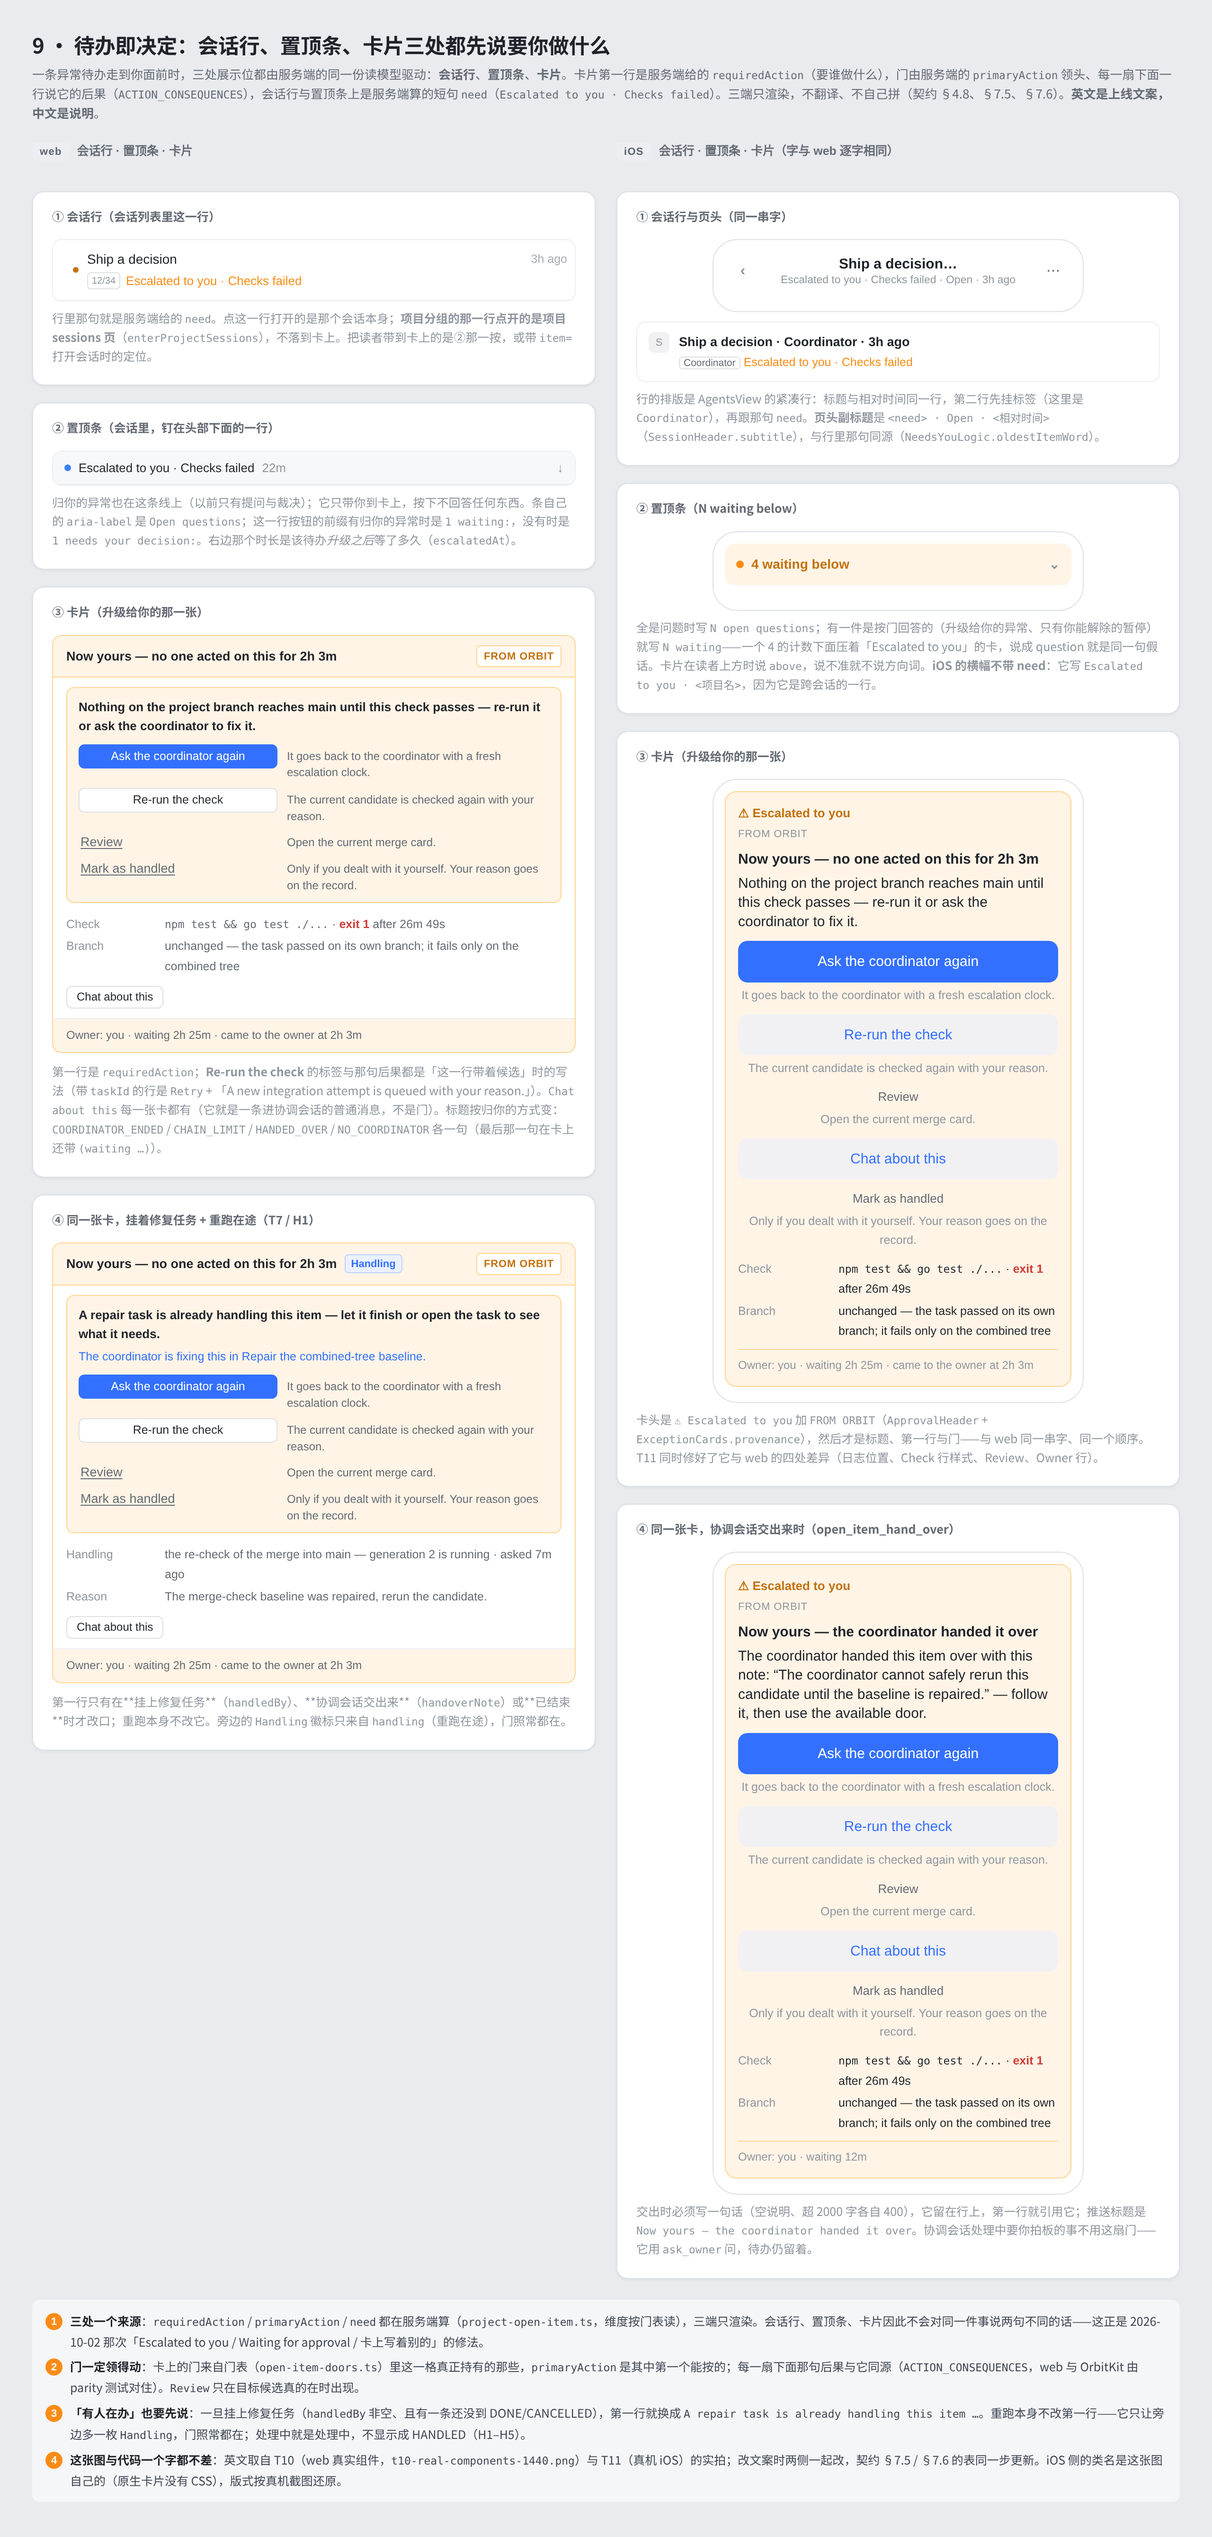
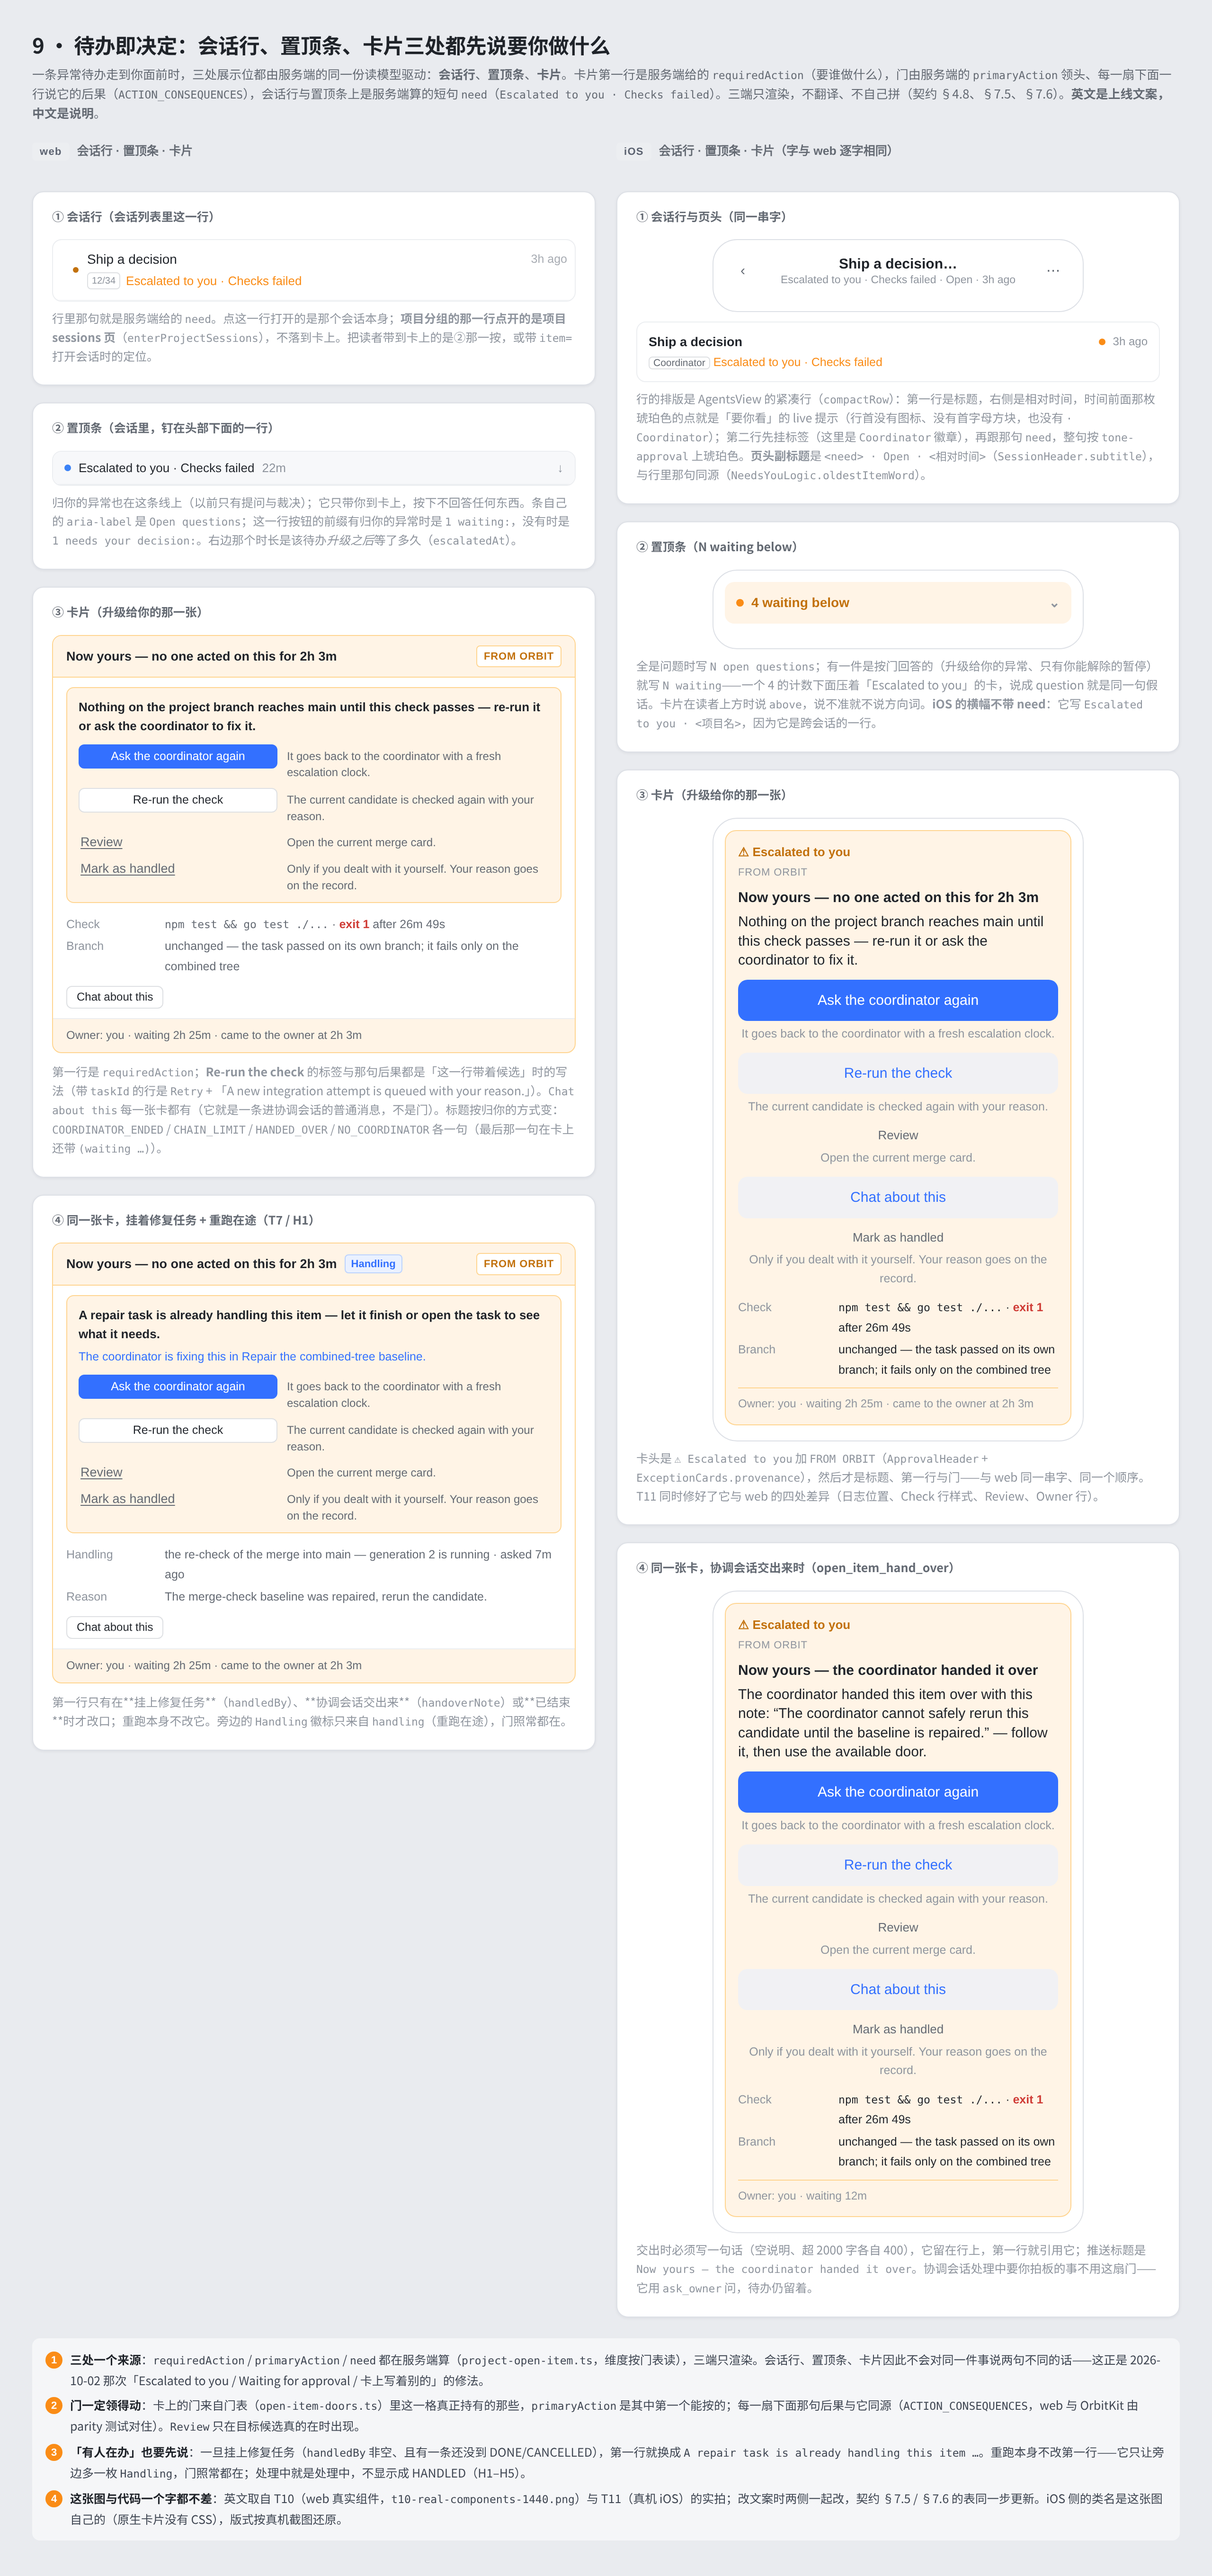
docs(project-progress): the reviewer's last five — one path, one sentence, one door name, one push title, one row
- §7.5 cites docs/mocks/project-progress/09-owner-item-as-decision.png (the file that exists).
- §4.6 X-E1 step 1 says the reconcile writes one of its two endings, which need not be
  the edge's (agreeing with §4.2).
- §7.5's session-row cell: the strip's press on an owner exception calls
  revealOwnerItemCard (DecisionRail.tsx:912); revealOpenItemCard is the promotion
  card's Review and the chat landing.
- §7.6 V12's NO_COORDINATOR cell now carries the push title, with the card's
  "(waiting …)" noted beside it.
- Mock 09's iOS row redrawn as AgentsView.compactRow draws it: title with the amber
  live dot and the relative time on line 1, the badge and the need line below, no
  initial tile. PNG re-rendered.

diff --git a/docs/mocks/project-progress/09-owner-item-as-decision.html b/docs/mocks/project-progress/09-owner-item-as-decision.html
@@ -41,11 +41,15 @@
   .i-facts { margin-top: 10px; }
   .i-foot { font-size: 12px; color: var(--text-3); margin-top: 8px;
             border-top: 1px solid var(--warning-border); padding-top: 7px; }
+  /* The compact row (AgentsView.compactRow): line 1 is the title with the live cue and the
+     relative time right-aligned; line 2 leads with the tags, then the preview line. */
   .row-sm { display: flex; align-items: flex-start; gap: 10px; padding: 10px 12px;
             border: 1px solid var(--border-subtle); border-radius: 10px; background: var(--bg-base); }
-  .row-sm .ini { width: 22px; height: 22px; border-radius: 6px; background: var(--fill-muted);
-                 display: grid; place-items: center; font-size: 11px; color: var(--text-3); flex: none; }
   .row-sm .main { min-width: 0; }
+  .row-sm .r1 { display: flex; align-items: center; gap: 8px; }
+  .row-sm .r1 .grow { flex: 1; }
+  .row-sm .dot { width: 7px; height: 7px; border-radius: 50%; background: var(--warning-solid); flex: none; }
+  .row-sm .when { font-size: 12px; color: var(--text-3); }
   .row-sm .t { font-size: 13.5px; font-weight: 600; color: var(--text-1); }
   .row-sm .s { font-size: 12.5px; color: var(--text-3); margin-top: 1px; }
   .row-sm .coord { font-size: 10.5px; border: 1px solid var(--border); border-radius: 4px;
@@ -203,13 +207,13 @@
           </div>
         </div>
         <div class="row-sm" style="margin-top:10px">
-          <span class="ini">S</span>
-          <div class="main">
-            <div class="t">Ship a decision · Coordinator · 3h ago</div>
+          <div class="main" style="flex:1">
+            <div class="r1"><span class="t">Ship a decision</span><span class="grow"></span>
+              <span class="dot"></span><span class="when">3h ago</span></div>
             <div class="s"><span class="coord">Coordinator</span> <span class="approval">Escalated to you · Checks failed</span></div>
           </div>
         </div>
-        <div class="a-hint zh" style="margin-top:8px">行的排版是 AgentsView 的紧凑行：标题与相对时间同一行，第二行先挂标签（这里是 <span class="a-mono">Coordinator</span>），再跟那句 <span class="a-mono">need</span>。<b>页头副标题</b>是 <span class="a-mono">&lt;need&gt; · Open · &lt;相对时间&gt;</span>（<span class="a-mono">SessionHeader.subtitle</span>），与行里那句同源（<span class="a-mono">NeedsYouLogic.oldestItemWord</span>）。</div>
+        <div class="a-hint zh" style="margin-top:8px">行的排版是 AgentsView 的紧凑行（<span class="a-mono">compactRow</span>）：第一行是标题，右侧是相对时间，时间前面那枚琥珀色的点就是「要你看」的 live 提示（行首没有图标、没有首字母方块，也没有 <span class="a-mono">· Coordinator</span>）；第二行先挂标签（这里是 <span class="a-mono">Coordinator</span> 徽章），再跟那句 <span class="a-mono">need</span>，整句按 <span class="a-mono">tone-approval</span> 上琥珀色。<b>页头副标题</b>是 <span class="a-mono">&lt;need&gt; · Open · &lt;相对时间&gt;</span>（<span class="a-mono">SessionHeader.subtitle</span>），与行里那句同源（<span class="a-mono">NeedsYouLogic.oldestItemWord</span>）。</div>
       </div>
 
       <div class="m-stage">

diff --git a/docs/project-integration-line-contract.md b/docs/project-integration-line-contract.md
@@ -1090,7 +1090,7 @@ CHECK：`(state = 'OPEN') = (resolved_at IS NULL)`；`kind ∈ {PROMOTION_APPROV
 
 **一拍里有几步，按这个顺序**（每一步都只写这一拍该写的、别的一概不写）：
 
-1. **`reconcile()`——对账兜底，排在最前**（T2，2026-10-03 落地）：把 `state = 'OPEN'` 且 `NOT openItemOwed(item)` 的每一行关掉，写出它那条边本该写的结局（§4.2「关闭边与对账兜底」），`resolution_note` 以 `backstop:` 开头，被关掉 item 的 owner 各记一次角标重算；剩下的集成待办只有「工作落在别的分支上」那一类，**只记日志、不关**。它排在最前，这样随后交给人的只是还有人欠着的。它的失败不连累第 2 步（`sweep` 自己问同一个谓词）。
+1. **`reconcile()`——对账兜底，排在最前**（T2，2026-10-03 落地）：把 `state = 'OPEN'` 且 `NOT openItemOwed(item)` 的每一行关掉，写出它**能写的两种结局之一**（`PROMOTION_MOVED_ON` 或 `TASK_CLOSED`，未必是漏掉的那条边会写的那个——§4.2「关闭边与对账兜底」有对照表），`resolution_note` 以 `backstop:` 开头，被关掉 item 的 owner 各记一次角标重算；剩下的集成待办只有「工作落在别的分支上」那一类，**只记日志、不关**。它排在最前，这样随后交给人的只是还有人欠着的。它的失败不连累第 2 步（`sweep` 自己问同一个谓词）。
 2. **`sweep()`——升级**：把「已到期且仍欠着」的协调会话待办交给 owner：
 
     ```sql
@@ -1642,11 +1642,11 @@ interface ProjectListAttention {
 | `ProjectBlockers` | blocker | 效果图 6 ②：每行 tag + 标题 + 说明 + 路径 + `since <age>` + `Resolve…`；底部 `▸ <n> resolved · latest: <reason>`；弹窗 `Resolve this blocker` / `Why is it no longer blocking?` / `Recorded with your name and this reason` |
 | 决定卡回执行 | 提案回复 | R6 |
 
-**三端同一张卡：先说做什么，再给门（T9–T11，2026-10-05 起落地）**。会话行、置顶条、卡片三处都先说**要你做什么**，说同一串字（效果图 `docs/project-progress/09-owner-item-as-decision.png`）：
+**三端同一张卡：先说做什么，再给门（T9–T11，2026-10-05 起落地）**。会话行、置顶条、卡片三处都先说**要你做什么**，说同一串字（效果图 `docs/mocks/project-progress/09-owner-item-as-decision.png`）：
 
 | 处 | 说什么 |
 |---|---|
-| 会话行 | `Escalated to you · <need>`（`need` 由服务端给，§4.8；工单类待办是 `Checks failed`、`Merge conflict`…）。`waitingKind = OWNER_ITEM` 的行写的正是这串字，行上不带按钮。点这一行只打开那个会话本身；项目分组行打开的是项目 sessions 页（web `enterProjectSessions`，iOS `AgentsView` 的同一行为）。把读者带到**卡**上的是会话里的置顶条那一按（web `revealOpenItemCard`）与带 `item=` 打开会话时的定位（web `revealOwnerItemCard`，OrbitKit `DeliveryAnchor.exception`） |
+| 会话行 | `Escalated to you · <need>`（`need` 由服务端给，§4.8；工单类待办是 `Checks failed`、`Merge conflict`…）。`waitingKind = OWNER_ITEM` 的行写的正是这串字，行上不带按钮。点这一行只打开那个会话本身；项目分组行打开的是项目 sessions 页（web `enterProjectSessions`，iOS `AgentsView` 的同一行为）。把读者带到**卡**上的是会话里的置顶条：归你的异常那一行按下去调 `revealOwnerItemCard`（web `DecisionRail.tsx:912`），带 `item=` 打开会话时的定位也用它（`WorkspaceView.tsx:5603`）；`revealOpenItemCard` 是另外两处（`ProjectPromotionCard.tsx:874` 的 Review、`WorkspaceView.tsx:5711` 的 Chat 落位） |
 | 置顶条（web 的 `DecisionRail`） | 每一行指向一张卡，归你的异常也在其中：`Escalated to you · <need>` + 等了多久。条自身的 `aria-label` 是 `Open questions`（`STRIP_LABEL`）；那一行按钮的 `aria-label` 前缀，有归你的异常时是 `N waiting:`，没有时是 `<n> needs your decision:`（`needsDecisionCount`）——后面接的就是这句。press 只滚动不回答 |
 | 置顶条（iOS/macOS 的 needs-you bar） | 全是问题时 `N open questions below`，否则 `N waiting below`——卡片还可以在读者上方，这一版按读者位置说 above / below（`NeedsYouLogic.belowText`） |
 | 卡片 | **第一行是 `requiredAction`**（服务端那句「下一步做谁做什么」，§4.8）；随后门由 `primaryAction` 领头，每一扇门下一行说它的后果（web `ACTION_CONSEQUENCES` / OrbitKit 的同一张表）；底部 `Owner: you · waiting <age> · came to the owner at <escalation>`（协调会话一侧是 `goes to the owner in <剩余>`）。`Review` 只在目标候选真的在时出现（`open_item_id` / 读回来的候选），不再指一张已被取代的卡 |
@@ -1659,7 +1659,7 @@ interface ProjectListAttention {
 |---|---|---|---|
 | `approve-merge-to-main` | M-T2 | `Merge <ref> into main?` | `<n> tasks passed checks on the combined tree · <project>` |
 | `coordinator-question` | R9 | `The coordinator has a question` | `<question> · <project>` |
-| `escalated-to-you` | X-E1、X-C3、X-D5、X-D6、交给 owner | `Now yours — no one acted on this for <duration>`（`assignee_reason = ESCALATED`）；`COORDINATOR_ENDED` → `Now yours — the coordinator conversation ended`；`CHAIN_LIMIT` → `Now yours — the 3rd failure in this chain`；`HANDED_OVER` → `Now yours — the coordinator handed it over`；`NO_COORDINATOR` → `Now yours — this project has no coordinator (waiting <age>)`（卡上的标题带那个括号，推送标题不带——`owner-item-alert.ts#escalationTitle` 与 `ProjectProgressStatus.tsx#escalationHeading`，前者是 §7.5 卡上标题的推送版本） | `<item title> · <project>` |
+| `escalated-to-you` | X-E1、X-C3、X-D5、X-D6、交给 owner | `Now yours — no one acted on this for <duration>`（`assignee_reason = ESCALATED`）；`COORDINATOR_ENDED` → `Now yours — the coordinator conversation ended`；`CHAIN_LIMIT` → `Now yours — the 3rd failure in this chain`；`HANDED_OVER` → `Now yours — the coordinator handed it over`；`NO_COORDINATOR` → `Now yours — this project has no coordinator`（推送标题，`owner-item-alert.ts#escalationTitle`）。**卡上那句多一段**：`escalationHeading`（`ProjectProgressStatus.tsx:161`）写 `Now yours — this project has no coordinator (waiting <age>)` | `<item title> · <project>` |
 | `fuse-paused` | F-T1 | `The coordinator paused itself` | `<why> · <project>` |
 
 载荷：`category: 'ORBIT_OWNER_ITEM'`、`kind`、`sessionID`（项目协调会话，客户端据此打开会话里的同一张卡）、`projectID`、`openItemID`、`thread-id: projectID`、`apns-collapse-id: owner-item-<itemId>`。`approve-merge-to-main` 的点按在 iOS 打开项目 sessions 页（卡在那里，`AppIntent.openProjectMerge`），应用内横幅同样；其余三类照旧打开协调会话（修订 10）。协调会话自己能处理的例外（负责人仍是 COORDINATOR）不推送（owner 决定 7）。
